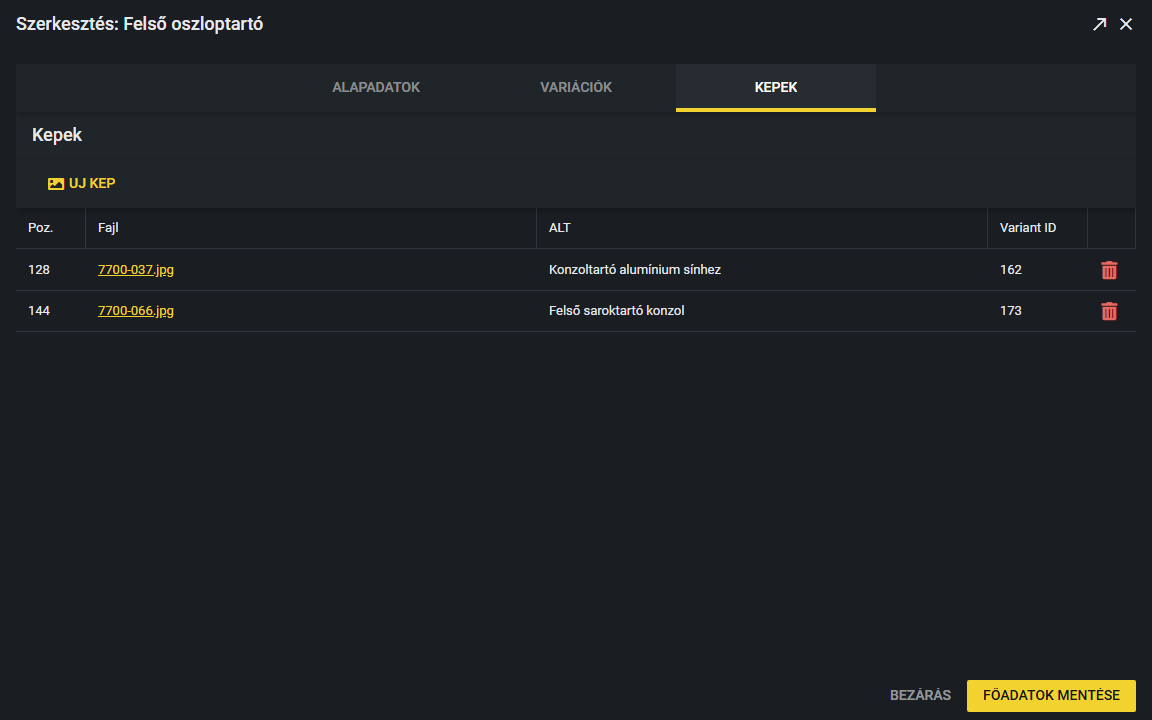
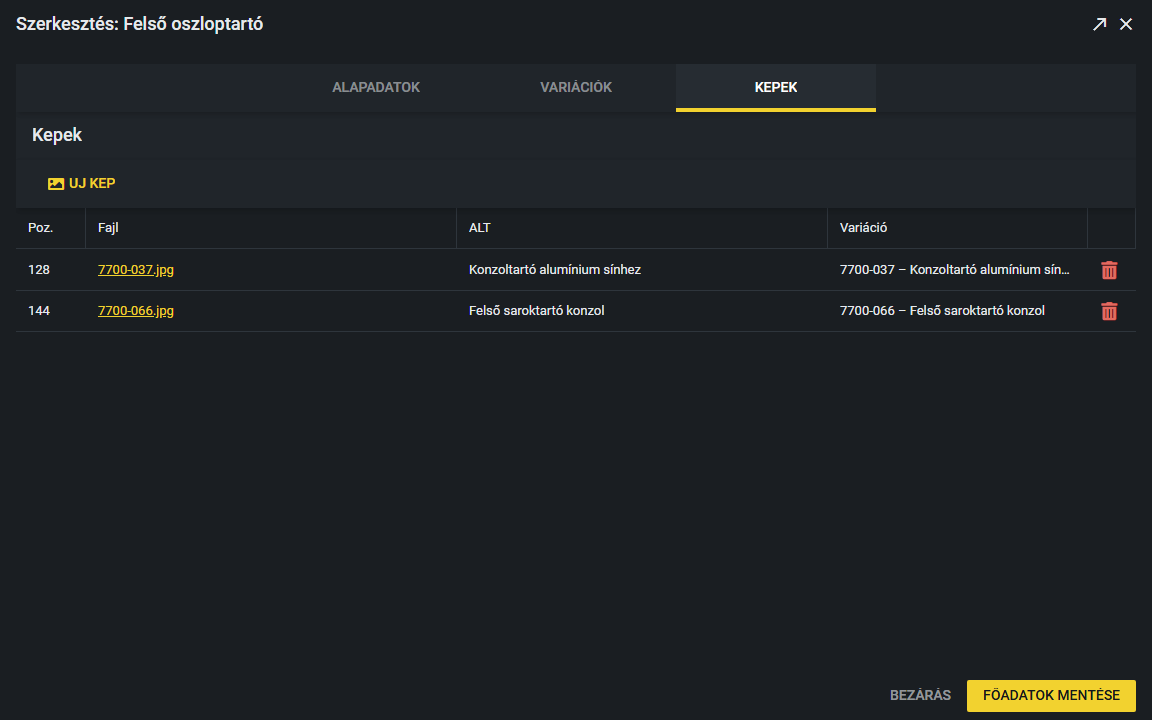
docs(sugo): Termékképek — variáció legördülőből, weboldali képválasztás

diff --git a/public/admin/build/production/JBXAdmin/resources/help/termekkepek.md b/public/admin/build/production/JBXAdmin/resources/help/termekkepek.md
@@ -11,20 +11,34 @@ A lista a termékhez feltöltött képeket mutatja. Oszlopok:
 - **Poz.:** a kép sorszáma, a sorrendet ez adja.
 - **Fajl** (Fájl): a kép fájlneve. Rákattintva új lapon megnyílik a kép.
 - **ALT:** a kép szöveges leírása (lásd lejjebb).
-- **Variant ID:** annak a variációnak az azonosítója, amelyikhez a kép tartozik. Ha üres, a kép a termékhez tartozik, nem egy konkrét variációhoz.
+- **Variáció:** melyik variációhoz tartozik a kép. **Minden variáció** esetén a kép a termék összes variációjánál látszik; egyébként a variáció cikkszáma és neve áll itt (például „1152 – X-Tray Mini”).
 - A sor végén a piros **kuka** ikon törli a képet.
 
 ![A képek listája](img/termek-kepek.png)
 
 ### Hogyan módosítom a képek adatait?
 
-1. Kattints duplán a módosítandó cellára (**Poz.**, **ALT** vagy **Variant ID**).
-2. Írd át az értéket.
+1. Kattints duplán a módosítandó cellára (**Poz.**, **ALT** vagy **Variáció**).
+2. A **Poz.** és az **ALT** cellába írd be az új értéket. A **Variáció** cellánál egy lista nyílik: válaszd ki a variációt, vagy a **Minden variáció** sort.
 3. Ha kilépsz a cellából, a módosítás **azonnal elmentődik**, külön mentés gomb nincs. A „Kep mentve” üzenet jelzi. A **Főadatok mentése** gombot nem kell megnyomnod.
 
 A **Fajl** cella is átírható, de ezt ne tedd: a fájlnevet átírva a kép nem találja a fájlt, és eltűnik a weboldalról.
 
-> **Kiegészítendő:** Honnan tudjátok meg egy variáció azonosítóját (a **Variant ID**-hoz)? A Variációk fülön az azonosító nem látszik. Szoktatok-e képet konkrét variációhoz rendelni, és ha igen, hogyan?
+### Hogyan rendelek egy képet egy variációhoz?
+
+1. Kattints duplán a kép **Variáció** cellájára.
+2. A listában a termék variációi szerepelnek (cikkszám és név), legfelül a **Minden variáció**. Válaszd ki a megfelelőt.
+3. Kattints a cellán kívülre: a hozzárendelés azonnal elmentődik.
+
+A listában mindig az adott termék aktuális variációi vannak: ha a **Variációk** fülön új variációt veszel fel, az is megjelenik benne. Másik termék variációjához a kép nem rendelhető. Ha a mentés nem sikerül, hibaüzenetet kapsz, és a cella visszaáll a korábbi értékre.
+
+Ha egy képnél a **⚠ Nem létező variáció** felirat látszik, a kép egy már nem létező variációhoz volt kötve. Válaszd ki a helyes variációt, vagy a **Minden variáció** sort.
+
+### Melyik kép látszik a weboldalon?
+
+Amikor a látogató kiválaszt egy variációt a termékoldalon, a **Minden variáció** képek és az adott variációhoz rendelt képek látszanak, a **Poz.** sorrendjében. Ha egy variációhoz így egyetlen kép sem jut, a termék összes képe megjelenik, hogy ne maradjon üresen a galéria.
+
+> **Kiegészítendő:** Szoktatok-e képet konkrét variációhoz rendelni (például színenként vagy méretenként külön kép), vagy a legtöbb kép minden variációhoz tartozik?
 
 ## Mi az ALT szöveg?
 
@@ -45,7 +59,7 @@ Néhány tudnivaló:
 
 - Támogatott formátumok: **JPG, PNG, WebP és GIF**. Más típusú fájlt a rendszer elutasít.
 - Ha nem választasz fájlt, a „Kérjük válasszon képfájlt.” hibaüzenetet kapod.
-- Az új kép a lista végére kerül (a legnagyobb **Poz.** utáni sorszámot kapja), és a termékhez tartozik, nem egy konkrét variációhoz.
+- Az új kép a lista végére kerül (a legnagyobb **Poz.** utáni sorszámot kapja), és **Minden variáció** beállítással jön létre. Ha egy konkrét variációhoz tartozik, feltöltés után állítsd be a **Variáció** cellában (lásd fent).
 - A rendszer a fájlnevet átnevezi egy véletlenszerű névre, ezért az eredeti fájlnév nem marad meg.
 
 > **Kiegészítendő:** Mekkora legyen a feltöltött kép (felbontás, fájlméret)? A kód nem korlátozza, de a szerver beállításai igen, és a túl nagy kép lassítja a weboldalt.

diff --git a/public/admin/resources/help/termekkepek.md b/public/admin/resources/help/termekkepek.md
@@ -11,20 +11,34 @@ A lista a termékhez feltöltött képeket mutatja. Oszlopok:
 - **Poz.:** a kép sorszáma, a sorrendet ez adja.
 - **Fajl** (Fájl): a kép fájlneve. Rákattintva új lapon megnyílik a kép.
 - **ALT:** a kép szöveges leírása (lásd lejjebb).
-- **Variant ID:** annak a variációnak az azonosítója, amelyikhez a kép tartozik. Ha üres, a kép a termékhez tartozik, nem egy konkrét variációhoz.
+- **Variáció:** melyik variációhoz tartozik a kép. **Minden variáció** esetén a kép a termék összes variációjánál látszik; egyébként a variáció cikkszáma és neve áll itt (például „1152 – X-Tray Mini”).
 - A sor végén a piros **kuka** ikon törli a képet.
 
 ![A képek listája](img/termek-kepek.png)
 
 ### Hogyan módosítom a képek adatait?
 
-1. Kattints duplán a módosítandó cellára (**Poz.**, **ALT** vagy **Variant ID**).
-2. Írd át az értéket.
+1. Kattints duplán a módosítandó cellára (**Poz.**, **ALT** vagy **Variáció**).
+2. A **Poz.** és az **ALT** cellába írd be az új értéket. A **Variáció** cellánál egy lista nyílik: válaszd ki a variációt, vagy a **Minden variáció** sort.
 3. Ha kilépsz a cellából, a módosítás **azonnal elmentődik**, külön mentés gomb nincs. A „Kep mentve” üzenet jelzi. A **Főadatok mentése** gombot nem kell megnyomnod.
 
 A **Fajl** cella is átírható, de ezt ne tedd: a fájlnevet átírva a kép nem találja a fájlt, és eltűnik a weboldalról.
 
-> **Kiegészítendő:** Honnan tudjátok meg egy variáció azonosítóját (a **Variant ID**-hoz)? A Variációk fülön az azonosító nem látszik. Szoktatok-e képet konkrét variációhoz rendelni, és ha igen, hogyan?
+### Hogyan rendelek egy képet egy variációhoz?
+
+1. Kattints duplán a kép **Variáció** cellájára.
+2. A listában a termék variációi szerepelnek (cikkszám és név), legfelül a **Minden variáció**. Válaszd ki a megfelelőt.
+3. Kattints a cellán kívülre: a hozzárendelés azonnal elmentődik.
+
+A listában mindig az adott termék aktuális variációi vannak: ha a **Variációk** fülön új variációt veszel fel, az is megjelenik benne. Másik termék variációjához a kép nem rendelhető. Ha a mentés nem sikerül, hibaüzenetet kapsz, és a cella visszaáll a korábbi értékre.
+
+Ha egy képnél a **⚠ Nem létező variáció** felirat látszik, a kép egy már nem létező variációhoz volt kötve. Válaszd ki a helyes variációt, vagy a **Minden variáció** sort.
+
+### Melyik kép látszik a weboldalon?
+
+Amikor a látogató kiválaszt egy variációt a termékoldalon, a **Minden variáció** képek és az adott variációhoz rendelt képek látszanak, a **Poz.** sorrendjében. Ha egy variációhoz így egyetlen kép sem jut, a termék összes képe megjelenik, hogy ne maradjon üresen a galéria.
+
+> **Kiegészítendő:** Szoktatok-e képet konkrét variációhoz rendelni (például színenként vagy méretenként külön kép), vagy a legtöbb kép minden variációhoz tartozik?
 
 ## Mi az ALT szöveg?
 
@@ -45,7 +59,7 @@ Néhány tudnivaló:
 
 - Támogatott formátumok: **JPG, PNG, WebP és GIF**. Más típusú fájlt a rendszer elutasít.
 - Ha nem választasz fájlt, a „Kérjük válasszon képfájlt.” hibaüzenetet kapod.
-- Az új kép a lista végére kerül (a legnagyobb **Poz.** utáni sorszámot kapja), és a termékhez tartozik, nem egy konkrét variációhoz.
+- Az új kép a lista végére kerül (a legnagyobb **Poz.** utáni sorszámot kapja), és **Minden variáció** beállítással jön létre. Ha egy konkrét variációhoz tartozik, feltöltés után állítsd be a **Variáció** cellában (lásd fent).
 - A rendszer a fájlnevet átnevezi egy véletlenszerű névre, ezért az eredeti fájlnév nem marad meg.
 
 > **Kiegészítendő:** Mekkora legyen a feltöltött kép (felbontás, fájlméret)? A kód nem korlátozza, de a szerver beállításai igen, és a túl nagy kép lassítja a weboldalt.
